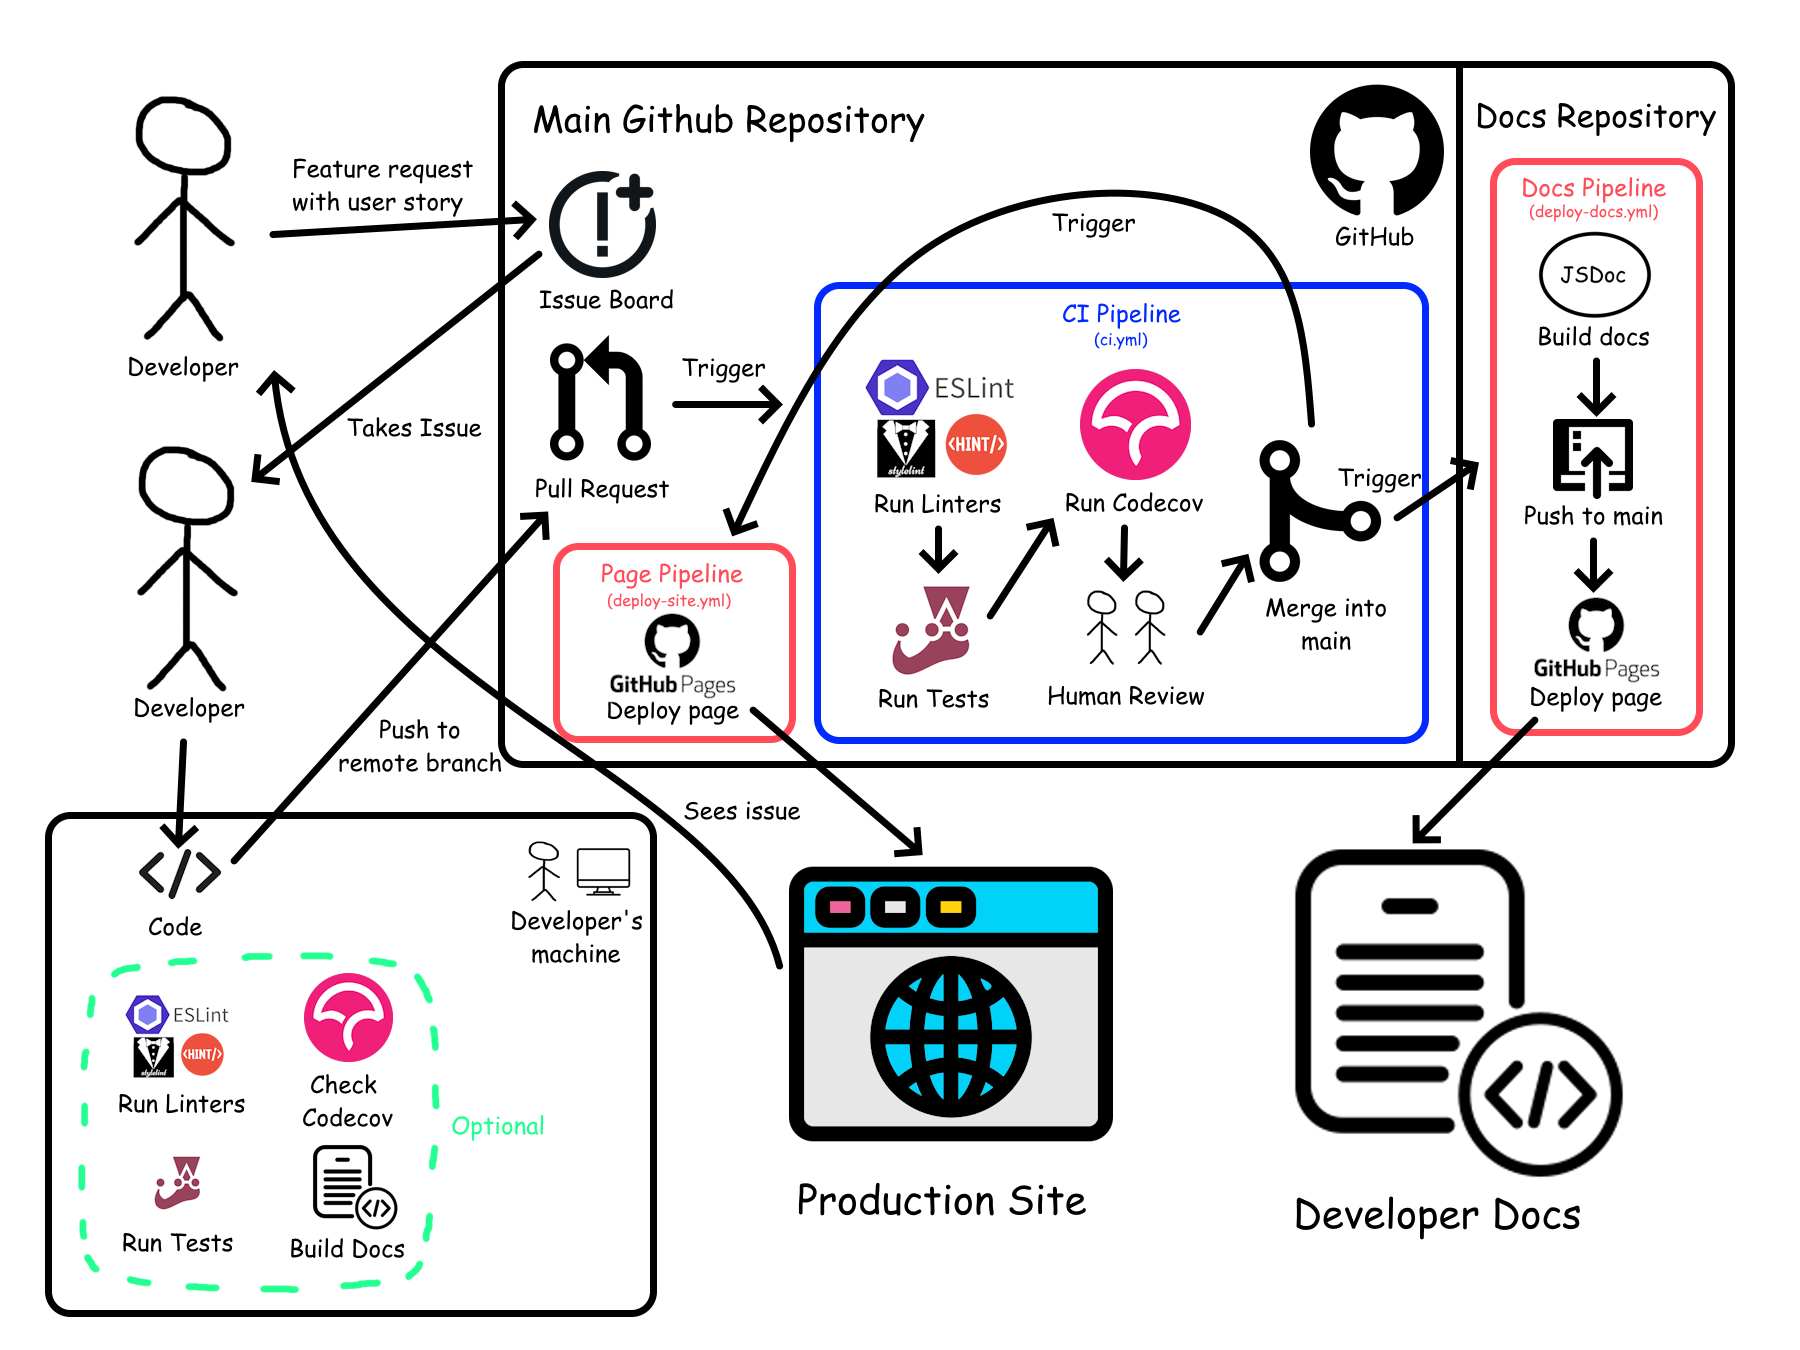
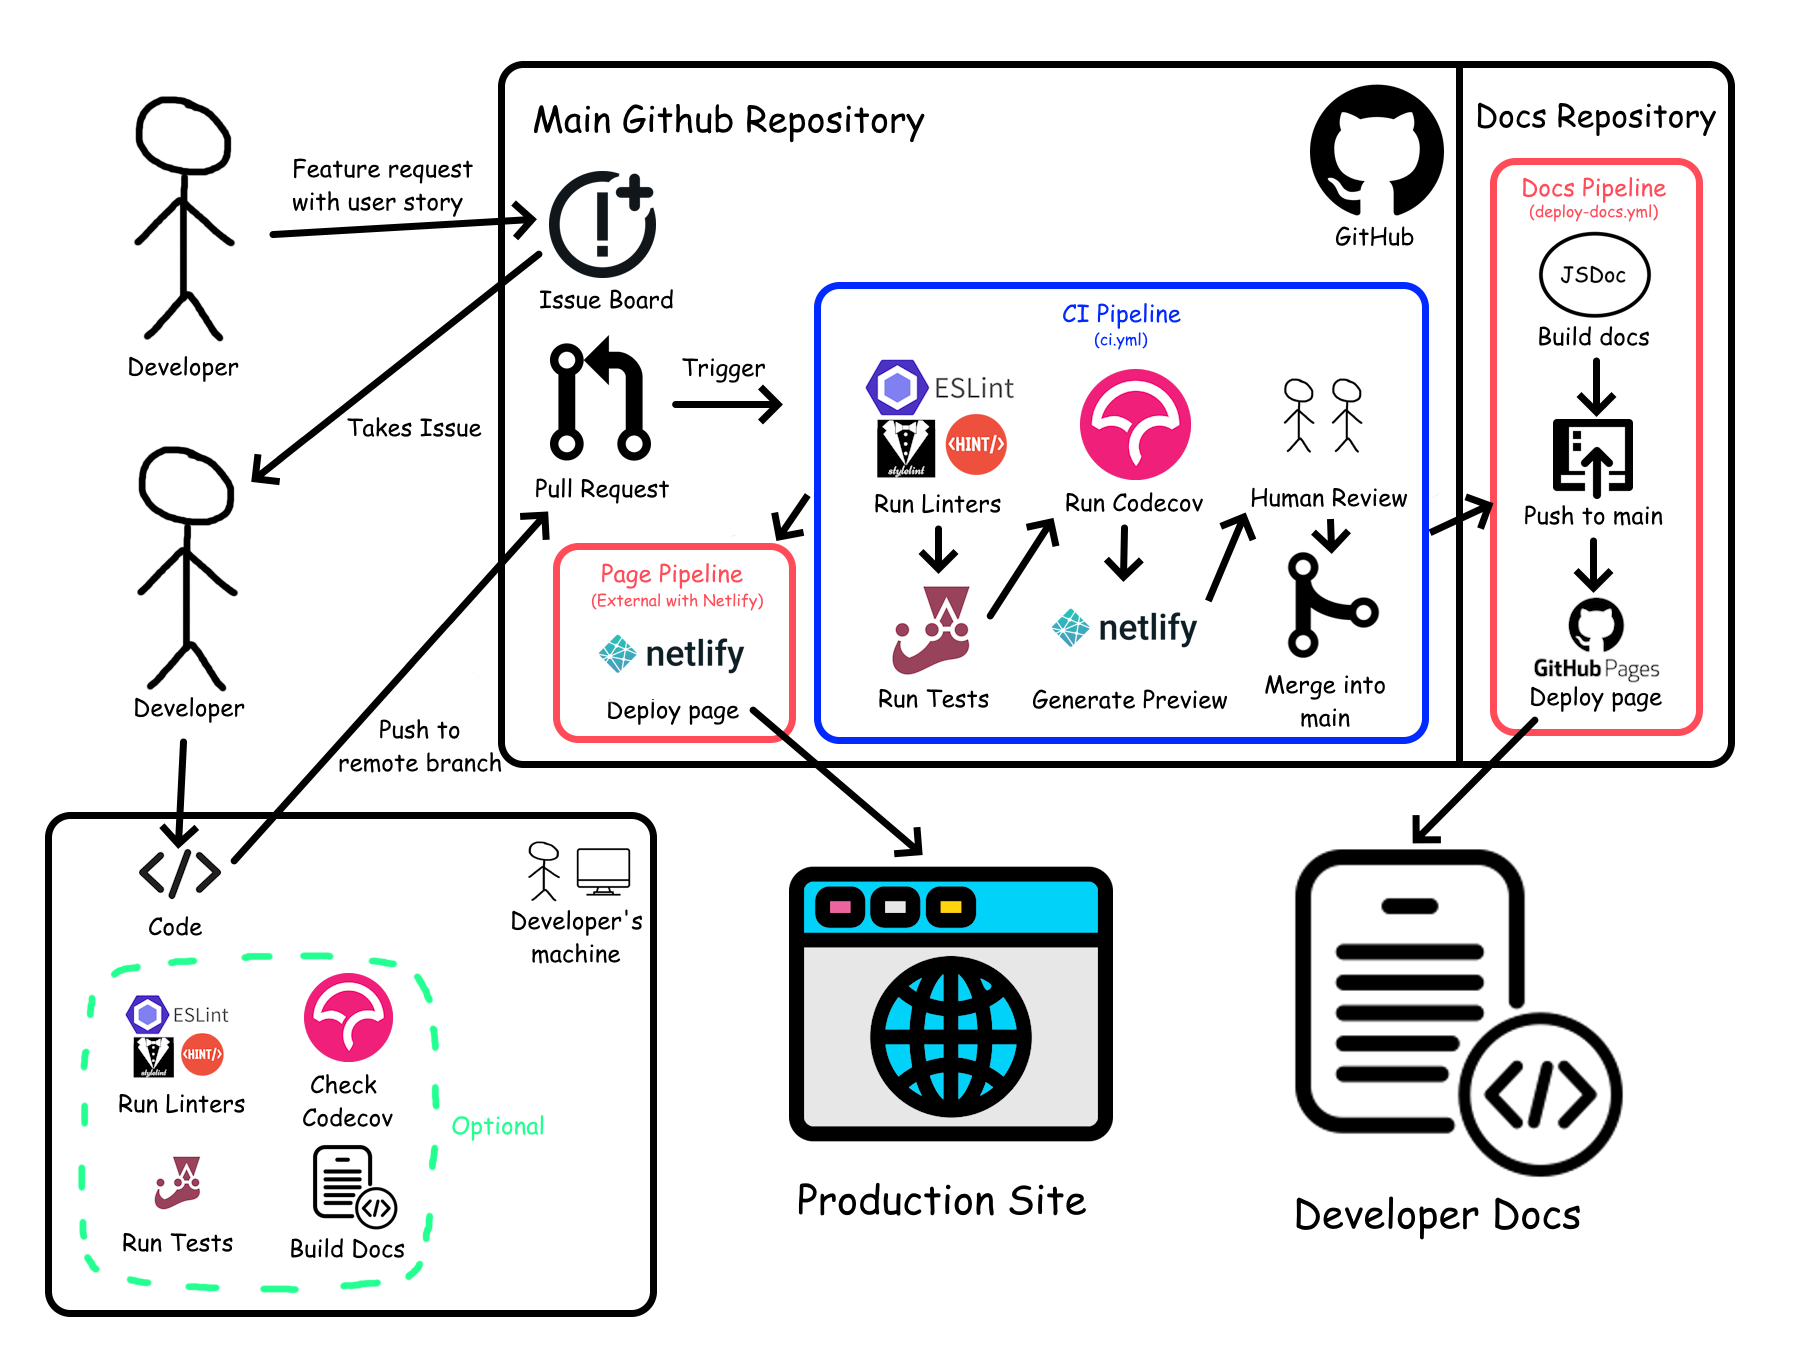
finalized pipeline and added documentation

diff --git a/admin/cipipeline/final-pipeline.md b/admin/cipipeline/final-pipeline.md
@@ -1,0 +1,154 @@
+# 10x-Speech CI/CD Pipeline
+
+## Table of Contents
+1. [CI/CD Diagram](#cicd-diagram)
+2. [Overview](#overview)
+3. [Tools Used](#tools-used)
+4. [Future Work](#future-work)
+
+## CI/CD Diagram
+This document can be used independently of the graphic, 
+but the pipeline is a lot easier to follow with the 
+help of the graphic:
+
+![cicd-pipeline](final-pipeline.png "cicd-pipeline")
+
+## Overview
+In this section, we give a high-level overview of the pipeline, and 
+how something goes from a feature request to deployment.
+
+Because we don't have real users (yet), or something like a product 
+manager, all of our features came from our own ideas. If a developer 
+uses the app and wants a feature, then they create an issue 
+via GitHub Issues.
+
+Another developer (maybe the same one who made the issue) will 
+claim the issue, and start working on implementing the feature. In 
+their development environment, they have access to linters, tests, 
+code coverage, and documentation.
+
+When the developer finishes implementing the feature, they will make 
+a pull request to the main branch. This will trigger the CI Pipeline.
+
+First, linters and tests are ran on the committed code. 
+These two steps must be completed successfully in order to continue. 
+We then run code coverage and generate a preview deployment, and 
+one other person than a committer approves the pull request. Once 
+the pull request is approved, it can be merged into main.
+
+Once something is merged into main, two deployment pipelines are ran: 
+one for developer documentation, and one for the actual app deployment. 
+The developer documentation pipeline maintains a separate dedicated 
+GitHub repository, and builds and deploys on every push to the main 
+repository. The app deployment pipeline is entirely handled by [netlify](https://www.netlify.com/), and similarly builds and deploys our 
+site on every push to the main repository.
+
+## Tools used
+In this section, we list all of the tools used in the CI/CD pipeline, 
+and comment on our experience with using them.
+
+### GitHub
+GitHub provides a big bundle of tools: GitHub Issues for our issue 
+board, git as a source control manager, GitHub pages to deploy 
+documentation, GitHub actions for our CI/CD pipeline, easy interfacing 
+with external tools like Netlify and Codecov, and as a file hoster so 
+our project can be 
+shared and accessed through a web interface. This is a college course, 
+we don't really have a need to stray from GitHub and the package of 
+tools it offers. Even if we weren't forced to use GitHub, we probably 
+would still use it.
+
+### Linters
+We used [ESLint](https://eslint.org/), [Stylelint](https://stylelint.io/), [HtmlHint](https://htmlhint.com/) 
+for JS, CSS, and HTML linting respectively. All of them were chosen 
+for roughly the same reason - because they were popular, were all 
+simple to set up, gave a large selection of options to configure them 
+to match our [styling guidelines](../../specs/guidelines/styling.md), 
+and we have had no problems with them. Choosing the most popular 
+option doesn't work 100% of the time, but these fit our needs well 
+enough, so we don't waste time on finding new ones.
+
+### Code Quality
+We used [Codecov](https://about.codecov.io/) for our code quality 
+checking. Alex made this decision because it shows up quite often 
+in some of his favorite open-source repositories. It worked out of the 
+box for finding uncovered lines of code by our unit tests, but 
+starts to become difficult when finding lines of code covered by 
+E2E testing with Puppeteer. If we had more time, we would need to 
+do a lot more research about E2E testing tools and code coverage, 
+and make a better decision about which tools to use for these.
+
+### Testing
+We used [Jest](https://jestjs.io/) for our testing framework. We 
+learned about it in labs, everybody knew how to use it, and it meets 
+all of our testing needs. For E2E testing, we used [Puppeteer](https://pptr.dev/), 
+which we also learned about in labs. It also meets all of our E2E 
+testing needs, but is slightly lacking in interfacing with Codecov, and 
+compatibility testing for non-chromium based browsers. If we had more 
+time, we would look into some other E2E testing libraries, such as 
+[Playwright](https://playwright.dev/), but rewriting all of the tests 
+would take too long to be able to meet this deadline.
+
+### Documentation
+We used [JSDoc](https://jsdoc.app/) for our developer documentation. 
+The reasoning and experience is similar to the linters - we chose it 
+because it was popular, and stuck with it because it was easy to document 
+with it and straightforward to use. Admittedly, our 
+[docs](https://cse110-sp25-group-10.github.io/10x-Speech-Docs/) aren't 
+the prettiest, but the information is all there and that is what's 
+important right now.
+
+### Deployment
+For our website deployment we use [netlify](https://www.netlify.com/). 
+We used to deploy our app using GitHub Pages, but switched to netlify 
+because it was recommended by Prof. Powell, and some team members had 
+experience with it already. 
+
+For documentation deployment we use GitHub Pages. We have documentation 
+being deployed from a separate repo instead of the main repo, because 
+our GitHub Pages deployment for the main repo used to be used for the 
+actual app deployment. There is no urgent need, but we should move 
+documentation deployment back to the main repo instead of a separate repo 
+to keep everything together.
+
+## Future Work
+As mentioned in [Tools used](#tools-used), we have problems with some 
+of our tools that could've been avoided with smarter planning and 
+more research. These problems are here as a matter of fact, and under 
+Agile, we shouldn't be afraid of changing tools late into the sprint. 
+And we haven't been afraid to change tools - we've changed tools late 
+in the cycle to address problems like slow websites, and overly cluttering 
+commits with documentation generation. But we can't change our testing 
+framework with a few days left, since that would require rewriting all 
+tests and maybe nontrivial changes to the CI/CD pipeline too. In this 
+section, we go over some of the problems we still have, and what we 
+would do to address them if we had more time.
+
+- Because we only have one main production branch that everybody pull
+requests  
+to, the only way for seeing if some GitHub action is right is to just 
+see if it works on main. This is obviously terrible - we've avoided 
+consequences most of the time because we can test some GitHub actions 
+locally, but for stuff like authentication for a GitHub action, we had to 
+do the process of "debugging on the main branch" - pushing commits to 
+main to try to debug the GitHub action. The next time a GitHub action 
+needs to be changed, we should make a new staging branch that isn't as 
+critical as main, where a GitHub action being logically incorrect doesn't 
+hinder the quality of main.
+
+- Our code coverage score is so low because a lot of our code can't 
+be directly tested using unit and integration tests, and can only be ran 
+with E2E testing. However, Puppeteer doesn't magically communicate 
+its coverage to Codecov, and the process to link the two isn't trivial. 
+Puppeteer is also made by Google for chromium-based browsers like Chrome 
+and Firefox, and doesn't work for Safari or other browsers, making it 
+impossible to do compatibility testing for Safari. Because of this, we 
+would probably switch to a new testing library such as [playwright](https://playwright.dev/)
+, and look into alternatives for code coverage as well.
+
+- Our GitHub issues are fine, but they aren't as good as they could be. 
+We aren't using user stories, we don't have a template, and we don't have 
+a systematic way of assigning issues to people or claiming issues. We 
+should make a template for issues and pull requests so that they are all 
+standardized, and so that people have no risk of overlapping work 
+for the same issue without knowing.
